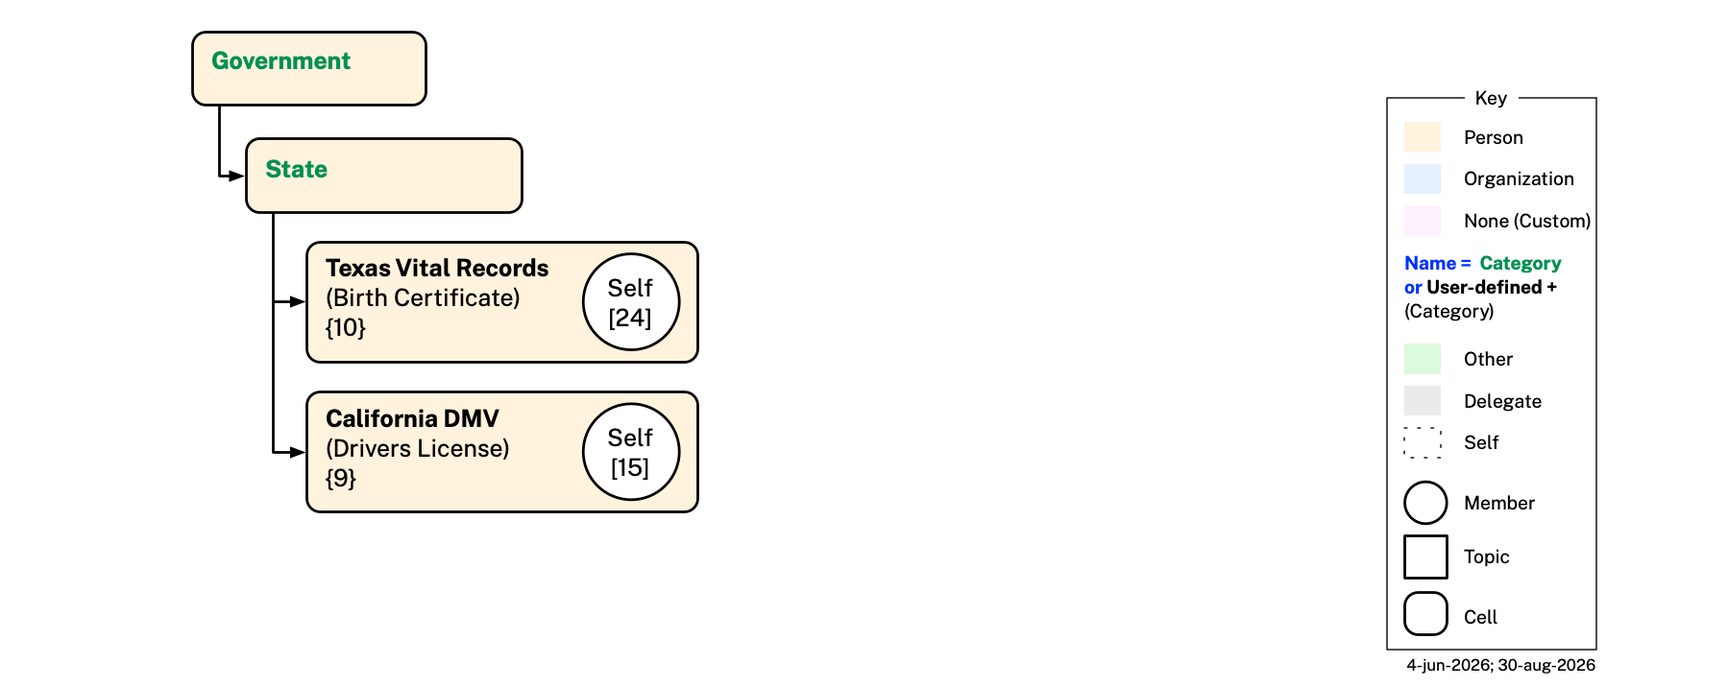
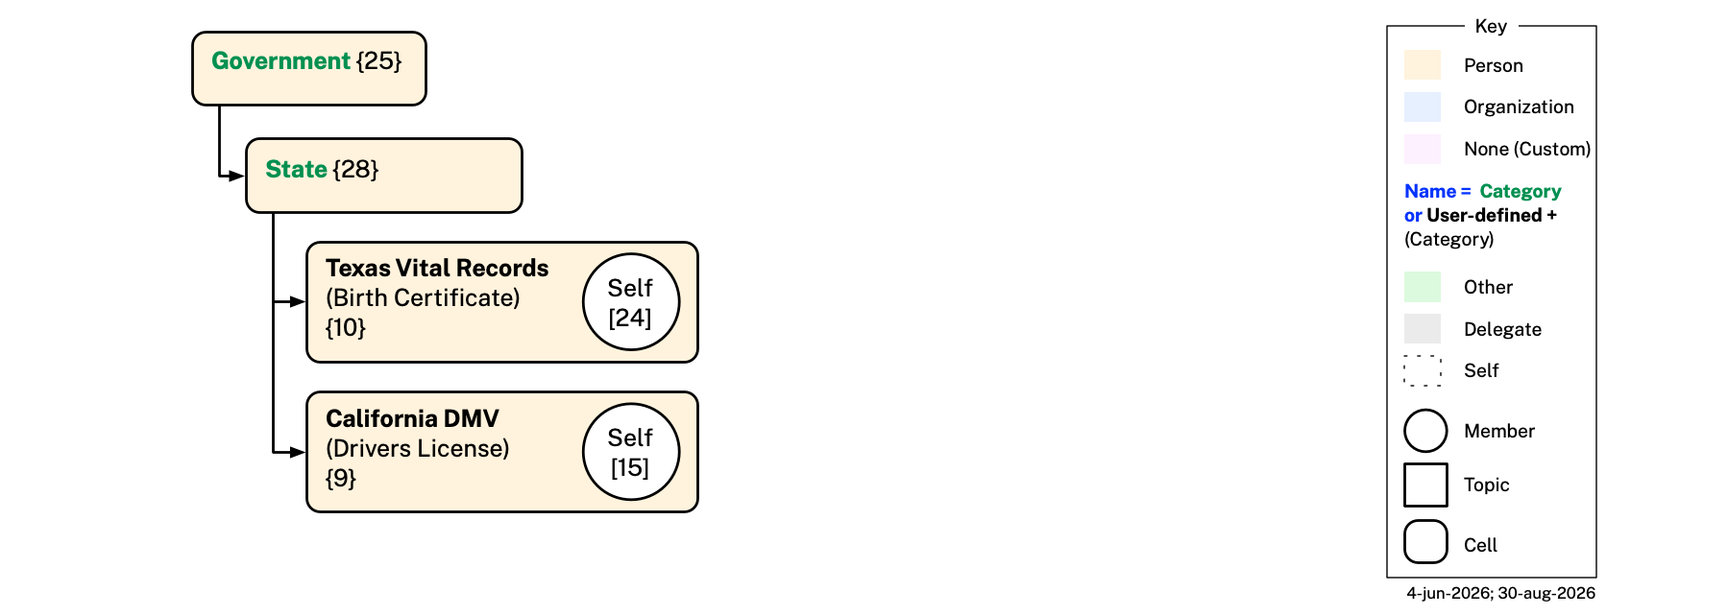
Split residences into new Home/Previous branch, delete Municipality
Government keeps its two children Federal and State, unchanged. A new
Home cell (cell-48, cat:Home) replaces the old Government/Municipality
scaffold for residence data: Paradise (current residence) moves
directly under Home, and a new Previous cell (cell-49, cat:Previous)
takes over from the deleted Municipality cell to hold Boston (previous
residence).

- category.ttl: add cat:Previous (broader cat:Home); bump to 2.0.1
- README.md: document cat:Previous under the cat:Home bullet
- New example/Cells/Home/Home.databook.md and
  example/Cells/Home/Previous/Previous.databook.md, mirroring the
  purely-organizational stub pattern (graph-71/graph-72)
- Move Boston/Paradise cell-databooks into the new Home/Previous tree;
  delete the old Municipality cell
- example/images/gov-federal.png, gov-state.png: now show {NN} labels
  on the Government/Federal/State boxes; new example/images/home.png
  replaces gov-municipality.png
- EXAMPLE.md, CLAUDE.md: update all Boston/Paradise paths, the 12
  diagram list, and Check 10h's worked examples to match

diff --git a/CLAUDE.md b/CLAUDE.md
@@ -61,8 +61,8 @@ Every graph below is an embedded section (`mia.graphs` entry + `### Graph NN` bo
 | Graph 16 — `example/Cells/Companies/Google/Google(companies).databook.md` | Alice's Google graph — Gmail address |
 | Graph 11 — `example/Cells/Companies/ATT/ATT(companies).databook.md` | Alice's AT&T graph — phone number |
 | Graph 24 — `example/Cells/Government/State/Texas Vital Records/Texas Vital Records(birth-certificate).databook.md` | Alice's Texas birth certificate — legal names, maiden name |
-| Graph 18 — `example/Cells/Government/Municipality/Paradise/Paradise(residence).databook.md` | Alice's Paradise, CA address — current residence (2025–present) |
-| Graph 13 — `example/Cells/Government/Municipality/Boston/Boston(residence).databook.md` | Alice's Boston, MA address — previous residence (2020–2025) |
+| Graph 18 — `example/Cells/Home/Paradise/Paradise(residence).databook.md` | Alice's Paradise, CA address — current residence (2025–present) |
+| Graph 13 — `example/Cells/Home/Previous/Boston/Boston(residence).databook.md` | Alice's Boston, MA address — previous residence (2020–2025) |
 | Graph 23 — `example/Cells/Government/Federal/Social Security Administration/Social Security Administration(ssn).databook.md` | Alice's Social Security Number |
 | Graph 12 — `example/Cells/People/Others/Bob Johnson/Bob Johnson(others).databook.md` | Alice's 1:1 graph with Bob; social network with Bob as member |
 | Graph 21 — `example/Cells/People/Immediate Family/Paula Walker/Paula Walker(immediate-family).databook.md` | Alice's family graph — social network with Paula Walker as member |
@@ -132,7 +132,7 @@ Cell-databook filenames follow (there is no separate category-databook file — 
 
 **UserDefined folders — `<catType>` is the literal `custom`**: a cell may legally carry no `cell:category` at all — this is the UserDefined category, for a cell the user created without picking any existing category concept. Since there is no category concept to kebab-case into `<catType>`, the filename uses the fixed literal string `custom` in its place, e.g. a folder named `Friends` with no category is `Friends(custom).databook.md`. The compression rule below still applies verbatim on top of this (a folder literally named "Custom" would compress to `Custom.databook.md`, though no real example does this) — `custom` is just an ordinary `<catType>` value from the filename's point of view, it just happens to never come from kebab-casing a `skos:prefLabel`.
 
-**Compression rule**: if `<local>`, normalized the same acronym-aware way `<catType>` already is, is identical to the kebab-cased `<catType>`, the parenthetical is dropped entirely, since it's pure redundancy — `<local>.databook.md` — rather than `<local>(<local>).databook.md`. For example `cat:Work`'s folder is named `Work`, and its own `catType` (`Work`) also kebab-cases to `work` — the same string — so its file is `Work.databook.md`, not `Work(work).databook.md`. This applies on a normalized-equal match, not raw string identity (since `<local>` itself is never kebab-cased): folder `Health & Wellness`'s catType `HealthWellness` both normalize to `health-wellness`, so it compresses too, to `Health & Wellness.databook.md`. `Acme(organization).databook.md` keeps its parenthetical since normalized `Acme` (`acme`) ≠ `organization`. Most of the top-level tree scaffold compresses this way (`Work`, `People`, `Others`, `Companies`, `Finances`, `Government`, `State`, `Municipality`, `Federal`, `Things`, `Affiliations`, `Employees`, `Immediate Family`, `Health & Wellness`, `Medical`), since these folders' own name simply *is* their category (there's no more-specific person/organization/thing filed there directly — that's one level further down, e.g. `Boston Hub Society(affiliations)` or `Acme(organization)`, which don't compress). `Banking & Payments Firms(banking-payments).databook.md` is a further example of the non-compressing case: normalized `Banking & Payments Firms` (`banking-payments-firms`) ≠ `banking-payments`, since the folder's own name matches `cat:BankingPayments`'s full `skos:prefLabel` ("Banking & Payments Firms") rather than a shortened form. The same rule applies identically to a graph's `(<containing-cell>)` segment (see [Graph ID Naming Convention](#graph-id-naming-convention) below), since that segment is always derived directly from the (possibly-compressed) cell filename's `id:` form (space-hyphenated, not the raw filename — graph ids are IRIs too).
+**Compression rule**: if `<local>`, normalized the same acronym-aware way `<catType>` already is, is identical to the kebab-cased `<catType>`, the parenthetical is dropped entirely, since it's pure redundancy — `<local>.databook.md` — rather than `<local>(<local>).databook.md`. For example `cat:Work`'s folder is named `Work`, and its own `catType` (`Work`) also kebab-cases to `work` — the same string — so its file is `Work.databook.md`, not `Work(work).databook.md`. This applies on a normalized-equal match, not raw string identity (since `<local>` itself is never kebab-cased): folder `Health & Wellness`'s catType `HealthWellness` both normalize to `health-wellness`, so it compresses too, to `Health & Wellness.databook.md`. `Acme(organization).databook.md` keeps its parenthetical since normalized `Acme` (`acme`) ≠ `organization`. Most of the top-level tree scaffold compresses this way (`Work`, `People`, `Others`, `Companies`, `Finances`, `Government`, `State`, `Home`, `Previous`, `Federal`, `Things`, `Affiliations`, `Employees`, `Immediate Family`, `Health & Wellness`, `Medical`), since these folders' own name simply *is* their category (there's no more-specific person/organization/thing filed there directly — that's one level further down, e.g. `Boston Hub Society(affiliations)` or `Acme(organization)`, which don't compress). `Banking & Payments Firms(banking-payments).databook.md` is a further example of the non-compressing case: normalized `Banking & Payments Firms` (`banking-payments-firms`) ≠ `banking-payments`, since the folder's own name matches `cat:BankingPayments`'s full `skos:prefLabel` ("Banking & Payments Firms") rather than a shortened form. The same rule applies identically to a graph's `(<containing-cell>)` segment (see [Graph ID Naming Convention](#graph-id-naming-convention) below), since that segment is always derived directly from the (possibly-compressed) cell filename's `id:` form (space-hyphenated, not the raw filename — graph ids are IRIs too).
 
 Folder naming is standardized as the category's own display label (the OS folder name is used verbatim, with no override field anywhere — the cell-databook's own `title:` field mirrors this name exactly rather than overriding it, see Check 19), but a folder's own name alone can't disambiguate a repeated name's *role* — e.g. Paula Walker's Immediate Family folder vs. her Acme Employee folder are both literally named "Paula Walker" — so `catType` carries that role encoding in the filename instead, not derived from folder position. This is exactly what disambiguates a name that legitimately recurs in two different roles — e.g. Paula Walker is both her own Immediate Family folder (`catType: ImmediateFamily` → `Paula Walker(immediate-family).databook.md`) and her Acme employee record (`catType: Employee` → `Paula Walker(employee).databook.md`); the same folder name, but never colliding, since a repeated name always means a *different* role and therefore a different `catType`.
 
@@ -332,7 +332,7 @@ Note: this check's `^id:\s*(\S+)` regex is anchored at true line-start with no l
 
 - **10g — Black parenthetical category-label text matches `cell:category`'s concept label**: As the second line of a cell box's content (there is no blue Subject text above it any more — cell diagrams don't render a cell's subject at all, since it's derivable from the graph circles already drawn rather than an independently stored fact; see README's Representative Cells section), a cell box may carry a black parenthetical giving its `cell:category` concept's `skos:prefLabel` (from `category.ttl`) in human-readable form. It follows the exact same compression rule as the Cell DataBook Filename Convention's `<local>(<catType>)` filename form: shown only when that label differs from the box's own folder-name label, and omitted entirely when the two are identical. This text must match the co-located cell-databook's actual `mia.category` concept's `skos:prefLabel`, verbatim — no more and no fewer words, never invented or abbreviated further. This is a visual check (no script) — e.g. `companies.png`'s "Google" and "ATT" boxes both show `(Companies)`, matching their shared `mia.category: "cat:Companies"` (label "Companies"); `gov-state.png`'s "Texas Vital Records" and "California DMV" boxes show `(Birth Certificate)` and `(Drivers License)`, matching `cat:BirthCertificate`'s and `cat:DriversLicense`'s labels; `things.png`'s "Things" box shows no parenthetical at all, correctly compressed since `cat:Things`'s label already equals the folder name "Things"; `things.png`'s "RAV4" box shows `(Vehicles)`, matching `cat:Vehicles`'s label; `travel.png`'s "Trips" box shows no parenthetical, correctly compressed since `cat:Trips`'s label already equals the folder name "Trips", and its "Kyoto Trip 2027" box shows `(Trips)`, matching `cat:Trips`'s label (reused from its immediate parent, the same "child folder reuses its parent's category" pattern RAV4/Ginger already use).
 
-- **10h — Black curly-brace `{NN}` label matches the cell's own `cell-<NN>` id**: As the last line of a cell box's content (immediately below the Category text, or combined with it on one line, e.g. `(SSN) {6}`), a cell box carries a small black `{NN}` label in curly braces — the cell's own number (a bare scaffolding folder with no rendered content box, e.g. `Work`/`Acme`/`Employees`/`Vehicles`/`Travel`/`Trips`, carries none — deliberately: even though every one of these scaffolding cells carries real (stub) member content, that stub is intentionally not visualized as a content box, so the box still shows no Category text, `{NN}`, or graph circles — a visual simplification, not a sign the cell lacks content). Wherever `{NN}` appears, it must equal the zero-padded two-digit `<NN>` from the co-located cell-databook's own `id: http://www.example.org/mia/cells/cell-<NN>` (see Check 9). Don't confuse this with the numbered graph circles' `[NN]` labels (Check 10d) — those are graph numbers in square brackets attached to a circle; this is the cell's own number in curly braces attached to the box itself. This is a visual check (no automated OCR), but the script below prints every folder's actual `cell-<NN>` for quick cross-reference against whichever diagram is being checked — e.g. `people.png`'s "Bob Johnson" box shows `{16}` and its "Fred Flintstone" box shows `{17}`; `people2.png`'s "Paula Walker" (Immediate Family) box shows `{12}`, "Health & Wellness" shows `{13}`, "Jane Starostina" shows `{14}`, and "Medical Appointment" shows `{15}`; `companies.png`'s "Google"/"ATT" boxes show `{3}`/`{2}`; `finances.png`'s "Citibank" box shows `{4}`; `gov-state.png`'s "Texas Vital Records"/"California DMV" boxes show `{10}`/`{9}`; `gov-federal.png`'s "Social Security Administration"/"Department of State" boxes show `{6}`/`{5}`; `gov-municipality.png`'s "Boston"/"Paradise" boxes show `{7}`/`{8}`; `things.png`'s "Things" box shows `{11}`; `affiliations.png`'s "Boston Hub Society" box shows `{1}`; `work.png`'s "Paula"/"Alice Walker" boxes show `{19}`/`{18}`; `pets.png`'s "Ginger" box shows `{41}`, its "Medical" box shows `{40}`, and its "Care & Feeding" box shows `{42}`; `things.png`'s "RAV4" box shows `{44}`; `travel.png`'s "Kyoto Trip 2027" box shows `{47}`. Run:
+- **10h — Black curly-brace `{NN}` label matches the cell's own `cell-<NN>` id**: As the last line of a cell box's content (immediately below the Category text, or combined with it on one line, e.g. `(SSN) {6}`), a cell box carries a small black `{NN}` label in curly braces — the cell's own number (a bare scaffolding folder with no rendered content box, e.g. `Work`/`Acme`/`Employees`/`Vehicles`/`Travel`/`Trips`, carries none — deliberately: even though every one of these scaffolding cells carries real (stub) member content, that stub is intentionally not visualized as a content box, so the box still shows no Category text, `{NN}`, or graph circles — a visual simplification, not a sign the cell lacks content). Wherever `{NN}` appears, it must equal the zero-padded two-digit `<NN>` from the co-located cell-databook's own `id: http://www.example.org/mia/cells/cell-<NN>` (see Check 9). Don't confuse this with the numbered graph circles' `[NN]` labels (Check 10d) — those are graph numbers in square brackets attached to a circle; this is the cell's own number in curly braces attached to the box itself. This is a visual check (no automated OCR), but the script below prints every folder's actual `cell-<NN>` for quick cross-reference against whichever diagram is being checked — e.g. `people.png`'s "Bob Johnson" box shows `{16}` and its "Fred Flintstone" box shows `{17}`; `people2.png`'s "Paula Walker" (Immediate Family) box shows `{12}`, "Health & Wellness" shows `{13}`, "Jane Starostina" shows `{14}`, and "Medical Appointment" shows `{15}`; `companies.png`'s "Google"/"ATT" boxes show `{3}`/`{2}`; `finances.png`'s "Citibank" box shows `{4}`; `gov-state.png`'s "Government"/"State" boxes show `{25}`/`{28}`, and its "Texas Vital Records"/"California DMV" boxes show `{10}`/`{9}`; `gov-federal.png`'s "Government"/"Federal" boxes show `{25}`/`{26}`, and its "Social Security Administration"/"Department of State" boxes show `{6}`/`{5}`; `home.png`'s "Home"/"Previous" boxes show `{48}`/`{49}`, and its "Boston"/"Paradise" boxes show `{7}`/`{8}`; `things.png`'s "Things" box shows `{11}`; `affiliations.png`'s "Boston Hub Society" box shows `{1}`; `work.png`'s "Paula"/"Alice Walker" boxes show `{19}`/`{18}`; `pets.png`'s "Ginger" box shows `{41}`, its "Medical" box shows `{40}`, and its "Care & Feeding" box shows `{42}`; `things.png`'s "RAV4" box shows `{44}`; `travel.png`'s "Kyoto Trip 2027" box shows `{47}`. Run:
 
 ```python
 import glob, re
@@ -348,7 +348,7 @@ for path in sorted(glob.glob('example/Cells/**/*.databook.md', recursive=True)):
 
 - **10i — Fill color and folder-name-text color match real data**: Every cell across all 12 diagrams carries exactly two independent, mechanically-checkable colors, matching Check 10a's Person/Organization/Custom fill-swatch legend (see Check 15's identical rule for `cat-cell-graph.png`): a **fill** color, applied to the cell's own DataBook box (a separately-drawn folder icon, where a diagram draws one, stays plain white and never carries fill — see Check 20's `folder-mapping.png`) — tan if the folder's `mia.category` resolves to `cat:Person`, light blue if `cat:Organization`, purple/Custom if the cell has no category at all — and a folder-**name-text** color (green/"Predefined" if the folder's `title:` equals the category concept's own `skos:prefLabel` verbatim, plain black/"User-defined" otherwise — always black for a no-category/Custom cell). This is a visual check (no automated pixel/OCR comparison) — use Check 20's script (identical rule, just applied to a different set of diagrams) to compute the correct fill/text color for every real folder and cross-reference against whichever diagram is being checked — e.g. `people.png`: "People"/"Others" tan fill + green text; "Bob Johnson"/"Fred Flintstone" tan fill + black text; `work.png`: "Paula"/"Alice Walker" light-blue fill + black text; `people2.png`: "Paula Walker"/"Jane Starostina" tan fill + black text; "Medical Appointment" tan fill + green text (folder name "Medical Appointment" now matches category `cat:MedicalAppointment`'s own label verbatim); `pets.png`: "Pets"/"Medical"/"Care & Feeding" tan fill + green text (folder name matches category label in each case), "Ginger" tan fill + black text (category `cat:Pets` label "Pets" ≠ folder name "Ginger"); `things.png`: "Vehicles" tan fill + green text (folder name matches category label), "RAV4" tan fill + black text (category `cat:Vehicles` label "Vehicles" ≠ folder name "RAV4"); `travel.png`: "Travel"/"Trips" tan fill + green text (folder name matches category label in each case), "Kyoto Trip 2027" tan fill + black text (category `cat:Trips` label "Trips" ≠ folder name "Kyoto Trip 2027"). No real example cell currently uses the Custom (no-category, `(custom)` filename) case — every current cell has a category — so no example diagram box is expected to show purple fill yet.
 
-The 12 diagrams are: `example/images/people.png`, `example/images/people2.png`, `example/images/work.png`, `example/images/companies.png`, `example/images/finances.png`, `example/images/gov-state.png`, `example/images/gov-federal.png`, `example/images/gov-municipality.png`, `example/images/things.png`, `example/images/affiliations.png`, `example/images/pets.png`, `example/images/travel.png`. There is no `health.png` — its content, e.g. Health & Wellness/Medical/Provider, lives in `people2.png` instead. `pets.png` shows the "Ginger" cell (cell-41, `{41}`, graphs `[36]`/`[37]`) and its two sibling child cells "Medical" (cell-40, `{40}`, graphs `[32]`/`[33]`/`[57]`) and "Care & Feeding" (cell-42, `{42}`, graphs `[58]`/`[59]`/`[60]`) as content boxes under the `Pets → Ginger → {Medical, Care & Feeding}` folder nesting — "Medical" holds Ginger's medication content directly (no more nested "Medications" sub-cell, folded away when `cat:PetsMedications` was merged into `cat:PetsMedical`), and "Care & Feeding" is its new sibling for Ginger's day-to-day care instructions (`cat:PetsCareAndFeeding`). `things.png` shows the "Things" cell (cell-11, `{11}`, graph `[22]`) and its child scaffold box "Vehicles" (no rendered content, per the bare-scaffolding-folder treatment above) — "Vehicles"'s own child cell, "RAV4" (cell-44, `{44}`, graphs `[62]`/`[63]`), is drawn as a content box in this same diagram, one level further down (`Things → Vehicles → RAV4`). `travel.png` shows two bare scaffold boxes, "Travel" (cell-45) and its child "Trips" (cell-46), neither rendered with content (per the bare-scaffolding-folder treatment above) — "Trips"'s own child cell, "Kyoto Trip 2027" (cell-47, `{47}`, graphs `[66]`/`[67]`/`[68]`/`[69]`/`[70]`), is drawn as a content box one level further down (`Travel → Trips → Kyoto Trip 2027`), with three member circles ("Self" `[66]`, "Agent" `[67]`, "Dave" `[68]`) and two topic squares sharing one subject ("Kyoto" `[69]`/`[70]`) — the first worked example of an `a:Agent` cell member (see README.md's [Agent Ontology](README.md#agent-ontology)).
+The 12 diagrams are: `example/images/people.png`, `example/images/people2.png`, `example/images/work.png`, `example/images/companies.png`, `example/images/finances.png`, `example/images/gov-state.png`, `example/images/gov-federal.png`, `example/images/home.png`, `example/images/things.png`, `example/images/affiliations.png`, `example/images/pets.png`, `example/images/travel.png`. There is no `health.png` — its content, e.g. Health & Wellness/Medical/Provider, lives in `people2.png` instead. `pets.png` shows the "Ginger" cell (cell-41, `{41}`, graphs `[36]`/`[37]`) and its two sibling child cells "Medical" (cell-40, `{40}`, graphs `[32]`/`[33]`/`[57]`) and "Care & Feeding" (cell-42, `{42}`, graphs `[58]`/`[59]`/`[60]`) as content boxes under the `Pets → Ginger → {Medical, Care & Feeding}` folder nesting — "Medical" holds Ginger's medication content directly (no more nested "Medications" sub-cell, folded away when `cat:PetsMedications` was merged into `cat:PetsMedical`), and "Care & Feeding" is its new sibling for Ginger's day-to-day care instructions (`cat:PetsCareAndFeeding`). `things.png` shows the "Things" cell (cell-11, `{11}`, graph `[22]`) and its child scaffold box "Vehicles" (no rendered content, per the bare-scaffolding-folder treatment above) — "Vehicles"'s own child cell, "RAV4" (cell-44, `{44}`, graphs `[62]`/`[63]`), is drawn as a content box in this same diagram, one level further down (`Things → Vehicles → RAV4`). `travel.png` shows two bare scaffold boxes, "Travel" (cell-45) and its child "Trips" (cell-46), neither rendered with content (per the bare-scaffolding-folder treatment above) — "Trips"'s own child cell, "Kyoto Trip 2027" (cell-47, `{47}`, graphs `[66]`/`[67]`/`[68]`/`[69]`/`[70]`), is drawn as a content box one level further down (`Travel → Trips → Kyoto Trip 2027`), with three member circles ("Self" `[66]`, "Agent" `[67]`, "Dave" `[68]`) and two topic squares sharing one subject ("Kyoto" `[69]`/`[70]`) — the first worked example of an `a:Agent` cell member (see README.md's [Agent Ontology](README.md#agent-ontology)).
 
 **Check 11 — Physical folder structure IS the tree of cells in `example/Cells/`**: This check applies only to `example/Cells/` — the user's own instance tree — since there is no separate canonical-instance file tree to mirror. There is no `mia.child`/`mia.cell` YAML list to cross-check the tree against either, so this check has no independently-asserted list to "mirror" at all; it collapses to a pure filesystem sanity check with no YAML frontmatter parsing at all. A folder is a **cell** ("marker dir") iff it directly contains exactly one `*.databook.md` file (the only DataBook type in a user's instance tree is `cell-databook`, so no `-cell` marker is needed to identify one) — that file is simultaneously the cell's real (or placeholder) content and its tree-node marker (cell.ttl's folder ownership boundary rule). A folder can never legally hold more than one cell-databook: a `cell:Cell` is self-contained, and letting two cells share a folder would risk a single file in that folder becoming ambiguously part of both — this check flags any such folder as an error. A plain filesystem folder with no cell-databook of its own is not a cell at all — that word stays reserved for a folder that does have one. Cell naming is not standardized — a cell's own folder name may be the category's display label, a role-based label, or anything else — but a cell-databook's own filename is always the folder's exact verbatim name (see the Cell DataBook Filename Convention), so this check's per-folder marker test and its filename root are one and the same string. A bare, marker-less pass-through directory between two marker dirs is legal, matching README.md's own definition of a "regular filesystem folder" ("A folder without a matching cell DataBook is simply a regular file system folder, not a cell — **even if it contains nested cells of its own**"): such a folder is legal anywhere in the tree, including between two marker dirs, as long as it isn't otherwise empty (i.e. something beneath it eventually has a cell-databook). Run:
 

diff --git a/EXAMPLE.md b/EXAMPLE.md
@@ -60,9 +60,9 @@ Alice has a social security number (SSN) issued to her by the Social Security Ad
 
 ### Current and Previous Homes
 
-Alice used to live in Boston until late 2025, but now lives in Paradise, CA. Information about these two residences are in graphs [13](<example/Cells/Government/Municipality/Boston/Boston(residence).databook.md#graph-13>) and [18](<example/Cells/Government/Municipality/Paradise/Paradise(residence).databook.md#graph-18>). 
+Alice used to live in Boston until late 2025, but now lives in Paradise, CA. Information about these two residences are in graphs [13](<example/Cells/Home/Previous/Boston/Boston(residence).databook.md#graph-13>) and [18](<example/Cells/Home/Paradise/Paradise(residence).databook.md#graph-18>). 
 
-<p align="center"><img src="example/images/gov-municipality.png" alt="Government — Municipality cells"></p>
+<p align="center"><img src="example/images/home.png" alt="Home cells"></p>
 
 ### Possessions 
 
@@ -156,8 +156,8 @@ A summary of every narratively-illustrated cell under `example/Cells/`, grouped 
 | Birth Certificate and Driver's License | California DMV | [California DMV(drivers-license).databook.md](<example/Cells/Government/State/California DMV/California DMV(drivers-license).databook.md>) {9} | Self | `cat:DriversLicense` | 15 |
 | Passport and Social Security Number | Department of State | [Department of State(passport).databook.md](<example/Cells/Government/Federal/Department of State/Department of State(passport).databook.md>) {5} | Self | `cat:Passport` | 19 |
 | Passport and Social Security Number | Social Security Administration | [Social Security Administration(ssn).databook.md](<example/Cells/Government/Federal/Social Security Administration/Social Security Administration(ssn).databook.md>) {6} | Self | `cat:SSN` | 23 |
-| Current and Previous Homes | Boston | [Boston(residence).databook.md](<example/Cells/Government/Municipality/Boston/Boston(residence).databook.md>) {7} | Self | `cat:Residence` | 13 |
-| Current and Previous Homes | Paradise | [Paradise(residence).databook.md](<example/Cells/Government/Municipality/Paradise/Paradise(residence).databook.md>) {8} | Self | `cat:Residence` | 18 |
+| Current and Previous Homes | Boston | [Boston(residence).databook.md](<example/Cells/Home/Previous/Boston/Boston(residence).databook.md>) {7} | Self | `cat:Residence` | 13 |
+| Current and Previous Homes | Paradise | [Paradise(residence).databook.md](<example/Cells/Home/Paradise/Paradise(residence).databook.md>) {8} | Self | `cat:Residence` | 18 |
 | Possessions | Things | [Things.databook.md](<example/Cells/Things/Things.databook.md>) {11} | Self | `cat:Things` | 22 |
 | Vehicles | RAV4 | [RAV4(vehicles).databook.md](<example/Cells/Things/Vehicles/RAV4/RAV4(vehicles).databook.md>) {44} | Alice's RAV4 | `cat:Vehicles` | 62, 63 |
 | Caring for Ginger | Ginger | [Ginger(pets).databook.md](<example/Cells/Pets/Ginger/Ginger(pets).databook.md>) {41} | Ginger | `cat:Pets` | 36, 37 |
@@ -175,11 +175,11 @@ The graphs in the table below are *about* Alice and claimed *by* Alice. The "Cel
 | 10 | [Alice Walker(employee).databook.md](<example/Cells/Work/Acme/Employees/Alice Walker/Alice Walker(employee).databook.md#graph-10>) {18} | `cat:Employee`     | Business card — given name, family name, email, phone, employer  | [view](example/graphs/images/graph-10.png) |
 | 11 | [ATT(companies).databook.md](<example/Cells/Companies/ATT/ATT(companies).databook.md#graph-11>) {2}                     | `cat:Companies`    | Phone number                                                     | [view](example/graphs/images/graph-11.png) |
 | 12 | [Bob Johnson(others).databook.md](<example/Cells/People/Others/Bob Johnson/Bob Johnson(others).databook.md#graph-12>) {16}                     | `cat:Others`       | Alice's 1:1 graph with Bob; social network with Bob as member  | [view](example/graphs/images/graph-12.png)|
-| 13 | [Boston(residence).databook.md](<example/Cells/Government/Municipality/Boston/Boston(residence).databook.md#graph-13>) {7}               | `cat:Residence` | Previous address — Boston, MA (2020–2025) with temporal interval | [view](example/graphs/images/graph-13.png) |
+| 13 | [Boston(residence).databook.md](<example/Cells/Home/Previous/Boston/Boston(residence).databook.md#graph-13>) {7}               | `cat:Residence` | Previous address — Boston, MA (2020–2025) with temporal interval | [view](example/graphs/images/graph-13.png) |
 | 14  | [Boston Hub Society(affiliations).databook.md](<example/Cells/Affiliations/Boston Hub Society/Boston Hub Society(affiliations).databook.md#graph-14>) {1}                     | `cat:Affiliations` | BHS profile: email, phone and current address                    | [view](example/graphs/images/graph-14.png)|
 | 15 | [California DMV(drivers-license).databook.md](<example/Cells/Government/State/California DMV/California DMV(drivers-license).databook.md#graph-15>) {9} | `cat:DriversLicense`      | California driver's license — legal name, DOB, DL#, expiry, photo | [view](example/graphs/images/graph-15.png) |
 | 16 | [Google(companies).databook.md](<example/Cells/Companies/Google/Google(companies).databook.md#graph-16>) {3}               | `cat:Companies`    | Gmail address                                                    | [view](example/graphs/images/graph-16.png) |
-| 18 | [Paradise(residence).databook.md](<example/Cells/Government/Municipality/Paradise/Paradise(residence).databook.md#graph-18>) {8}           | `cat:Residence` | Current address — Paradise, CA (2025–present)                    | [view](example/graphs/images/graph-18.png) |
+| 18 | [Paradise(residence).databook.md](<example/Cells/Home/Paradise/Paradise(residence).databook.md#graph-18>) {8}           | `cat:Residence` | Current address — Paradise, CA (2025–present)                    | [view](example/graphs/images/graph-18.png) |
 | 19 | [Department of State(passport).databook.md](<example/Cells/Government/Federal/Department of State/Department of State(passport).databook.md#graph-19>) {5}             | `cat:Passport`    | US passport — legal name, DOB, passport#, issue/expiry, place of birth, gender marker, photo | [view](example/graphs/images/graph-19.png) |
 | 20 | [Paula Walker(employee).databook.md](<example/Cells/Work/Acme/Employees/Paula Walker/Paula Walker(employee).databook.md#graph-20>) {19}                   | `cat:Employee`     | Acme employee graph; company email; works with Paula           | [view](example/graphs/images/graph-20.png)|
 | 21 | [Paula Walker(immediate-family).databook.md](<example/Cells/People/Immediate Family/Paula Walker/Paula Walker(immediate-family).databook.md#graph-21>) {12}   | `cat:ImmediateFamily`       | Alice as a family member                       | [view](example/graphs/images/graph-21.png) |
@@ -237,7 +237,7 @@ The following table lists graphs about other people (Paula and Bob) or organizat
 
 ```bash
 python3 draw.py "example/Cells/Finances/Banking & Payments Firms/Citibank/Citibank(banking-payments).databook.md" "graph-09"
-python3 draw.py "example/Cells/Government/Municipality/Paradise/Paradise(residence).databook.md" "graph-18"
+python3 draw.py "example/Cells/Home/Paradise/Paradise(residence).databook.md" "graph-18"
 ```
 
 Both output files are always written to `example/graphs/images/` (must be run from the repo root), keyed by the graph's own id local-name.

diff --git a/example/Cells/Home/Previous/Previous.databook.md b/example/Cells/Home/Previous/Previous.databook.md
@@ -1,0 +1,40 @@
+---
+id: http://www.example.org/mia/cells/cell-49
+title: "Previous"
+type: cell-databook
+version: 1.0.0
+created: 2026-09-03
+description: >
+  Cell DataBook for folder "Previous" (cell:category: cat:Previous). It is a
+  one-member cell with one member entry about :Self — a minimal stub,
+  since "Previous" is a purely organizational category node with no
+  content or relationship of its own beyond Alice's required membership.
+mia:
+  category: "cat:Previous"
+  creator: ":Self"
+  owner: ":Self"
+  member: "graph-72"
+  graphs:
+    - id: "http://www.example.org/mia/graphs/graph-72"
+      claimant: ":Self"
+      subject: ":Self"
+      shapes:
+        - http://mee.foundation/ontologies/persona/shapes
+        - http://mee.foundation/ontologies/graph/shapes
+---
+
+## Graphs
+
+<a id="graph-72"></a>
+### Graph 72
+
+#### Overview
+
+This graph is the cell's one required `member` entry — a cell with a single `member` entry in the user's own category-cell tree always has `:Self` as that member (see Check 21), regardless of what the cell's `subject` is — here, Alice herself. The "Previous" cell is a purely organizational category node (`cell:category: cat:Previous`) with no relationship or subject of its own beyond Alice's required membership, so this stub carries no further claims. Alice is both the claimant and the subject. Deliberately empty: the `member` requirement is about `g:subject`/`g:claimant` (asserted at the `mia.graphs[]` YAML level, not in this Turtle body), not about carrying any particular content — there is no rule requiring a member's graph to assert anything at all about them.
+
+#### Graph
+
+```turtle
+<!-- databook:id: alice-previous-member-graph -->
+<!-- databook:graph: http://www.example.org/mia/graphs/graph-72#graph -->
+```

diff --git a/example/Cells/Home/Home.databook.md b/example/Cells/Home/Home.databook.md
@@ -1,0 +1,40 @@
+---
+id: http://www.example.org/mia/cells/cell-48
+title: "Home"
+type: cell-databook
+version: 1.0.0
+created: 2026-09-03
+description: >
+  Cell DataBook for folder "Home" (cell:category: cat:Home). It is a
+  one-member cell with one member entry about :Self — a minimal stub,
+  since "Home" is a purely organizational category node with no
+  content or relationship of its own beyond Alice's required membership.
+mia:
+  category: "cat:Home"
+  creator: ":Self"
+  owner: ":Self"
+  member: "graph-71"
+  graphs:
+    - id: "http://www.example.org/mia/graphs/graph-71"
+      claimant: ":Self"
+      subject: ":Self"
+      shapes:
+        - http://mee.foundation/ontologies/persona/shapes
+        - http://mee.foundation/ontologies/graph/shapes
+---
+
+## Graphs
+
+<a id="graph-71"></a>
+### Graph 71
+
+#### Overview
+
+This graph is the cell's one required `member` entry — a cell with a single `member` entry in the user's own category-cell tree always has `:Self` as that member (see Check 21), regardless of what the cell's `subject` is — here, Alice herself. The "Home" cell is a purely organizational category node (`cell:category: cat:Home`) with no relationship or subject of its own beyond Alice's required membership, so this stub carries no further claims. Alice is both the claimant and the subject. Deliberately empty: the `member` requirement is about `g:subject`/`g:claimant` (asserted at the `mia.graphs[]` YAML level, not in this Turtle body), not about carrying any particular content — there is no rule requiring a member's graph to assert anything at all about them.
+
+#### Graph
+
+```turtle
+<!-- databook:id: alice-home-member-graph -->
+<!-- databook:graph: http://www.example.org/mia/graphs/graph-71#graph -->
+```

diff --git a/README.md b/README.md
@@ -100,6 +100,7 @@ As we've mentioned, the user is free to create cells not included in the predefi
         - **Devices** (`cat:PetsDevices`) — medical devices and supplies used in a pet's care, e.g. syringes, nebulizers, and injection solutions.
     - **Care & Feeding** (`cat:PetsCareAndFeeding`) — day-to-day instructions for someone else to take care of a pet — a pet's diet, food providers, feeding instructions and schedule, dietary restrictions, where they sleep, and other routine care.
 1. **Home** (`cat:Home`) — owning or renting a home, apartment, or other dwelling. Leases, deeds, utility accounts, real estate brokers.
+    - **Previous** (`cat:Previous`) — a previous home or residence, no longer current.
 1. **Work** (`cat:Work`) — professional roles. Employment history, resume/CV, job level, job function, industry.
 1. **Things** (`cat:Things`) — owned assets, property, vehicles, and other possessions.
     - **Vehicles** (`cat:Vehicles`) — related to owning and maintaining a vehicle. Vehicle insurance, repairs, mechanics, garages. 
